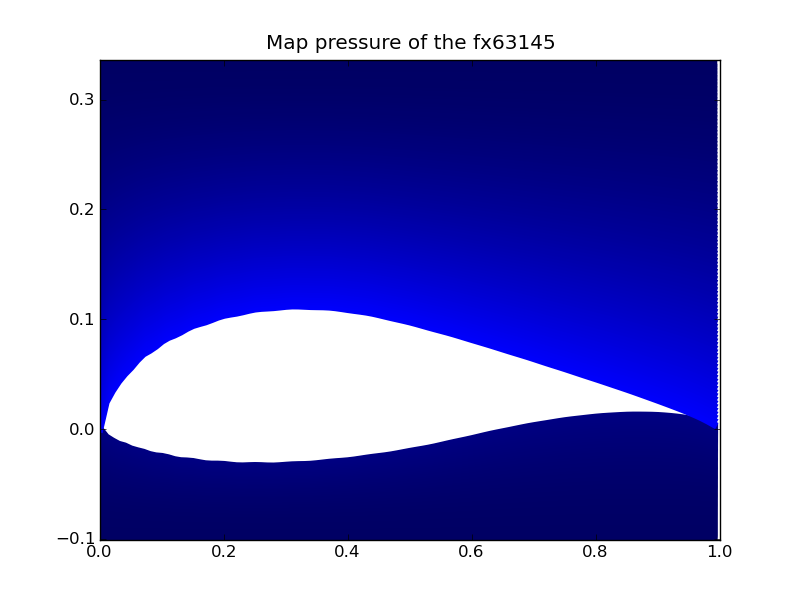
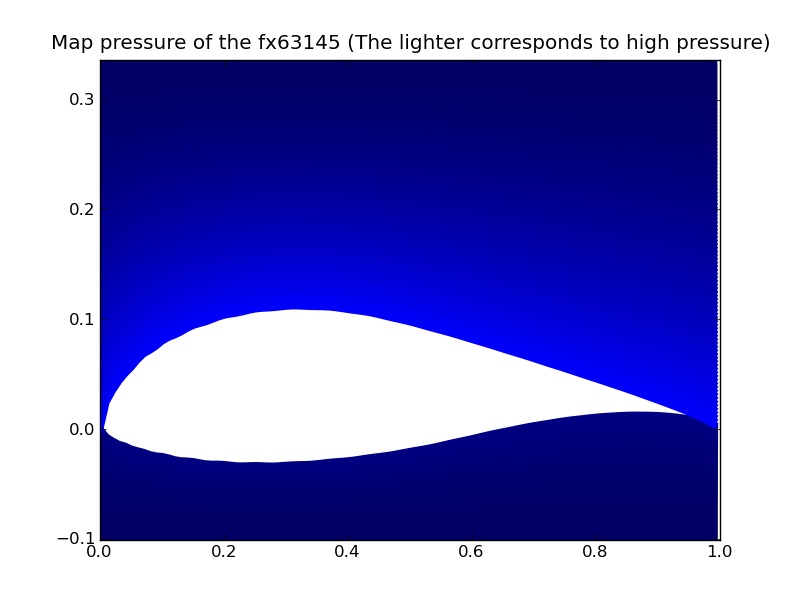
coms dans modelisation.py

Changed region(s): [[0.0625, 0.06, 0.9688, 0.09]]

diff --git a/src/Modelisation.py b/src/Modelisation.py
@@ -79,12 +79,12 @@ def airflow_model(f_int, f_ext):
     for i in range(nbLambda):
         f_lambda_int = f_lambda(f_int, lambdaTab[i], min(iy))
         f_lambda_values_int = it.curve(f_lambda_int,len(t),t)
-        mp.plot(t,f_lambda_values_int,linewidth=1.0)
+        mp.plot(t,f_lambda_values_int,linewidth=1.0, color='#0000ff')
         
     for j in range(nbLambda):
         f_lambda_ext = f_lambda(f_ext, lambdaTab[j], max(ey))
         f_lambda_values_ext = it.curve(f_lambda_ext,len(t),t)
-        mp.plot(t,f_lambda_values_ext,linewidth=1.0)
+        mp.plot(t,f_lambda_values_ext,linewidth=1.0, color='#0000ff')
 
     mp.axis([min(ex), max(max(ex),max(ix)), 3*min(iy), 3*max(ey)])
     mp.title('Laminar airflow of the fx63145')
@@ -96,8 +96,9 @@ def pressure_to_colour(P, Pbase, Pmax):
     
 
 def curves_pressure_representation(f_int, f_int_d, f_ext,  f_ext_d, integration_method, Ps, precision, n):
+    """ Plots colored curbs according to pressure """ 
     t = np.arange(0.0, 1.0, 0.01)
-    lambdaTab = np.arange(0.0,1.0,0.1)
+    lambdaTab = np.arange(0.0,1.0,0.01)
     nbLambda = len(lambdaTab)
     Pressure_Tab = np.zeros(nbLambda)
     Pmax = 1
@@ -115,7 +116,7 @@ def curves_pressure_representation(f_int, f_int_d, f_ext,  f_ext_d, integration_
         Pressure_Tab[i] = pressure_on_curve(Ps, length_int)
         color = pressure_to_colour(Pressure_Tab[i], Pbase, Pmax)
         f_lambda_values_int = it.curve(f_lambda_int,len(t),t)
-        mp.plot(t,f_lambda_values_int,linewidth=5.0, color=(color, 0, 0))
+        mp.plot(t,f_lambda_values_int,linewidth=5.0, color=(0, 0, color))
         
     for j in range(nbLambda):
         f_lambda_ext = f_lambda(f_ext, lambdaTab[j], max(ey))
@@ -124,10 +125,10 @@ def curves_pressure_representation(f_int, f_int_d, f_ext,  f_ext_d, integration_
         Pressure_Tab[j] = pressure_on_curve(Ps, length_ext)
         color = pressure_to_colour(Pressure_Tab[j], Pbase, Pmax)
         f_lambda_values_ext = it.curve(f_lambda_ext,len(t),t)
-        mp.plot(t,f_lambda_values_ext,linewidth=5.0, color=(color,0,0))
+        mp.plot(t,f_lambda_values_ext,linewidth=5.0, color=(0,0,color))
 
     mp.axis([min(ex), max(max(ex),max(ix)), 3*min(iy), 3*max(ey)])
-    mp.title('map pressure of the fx63145')
+    mp.title('Map pressure of the fx63145 (The lighter corresponds to high pressure)')
     mp.savefig("map_pressure_test.png")
     mp.clf()
 
@@ -201,7 +202,7 @@ def plot_pressures_around_airfoil_mat(file_name, size_matrix):
 
             
 def matrix_to_png(matrix, name):
-    """ Convertit une matrice matrix en une image png """
+    """ Converts a matrix in png format picture """
     mp.clf()
     mp.imshow(matrix, cmap='hot', interpolation='bilinear')
     mp.savefig(name)
@@ -240,10 +241,9 @@ print pressure_on_curve(Ps, length_ext_b)
 #M = matrix_map_pressure(ext_interp_fun_d, 1, 1, 0.1)
 #print matrix_to_png(M, "Map_pressure.png")
 
+airflow_model(int_interp_fun, ext_interp_fun)
 
 curves_pressure_representation(int_interp_fun, int_interp_fun_d, ext_interp_fun, ext_interp_fun_d, it.simpson, 0, 0.1, 50)
-
-#airflow_model(int_interp_fun, ext_interp_fun)
 
 Mat = plot_pressures_around_airfoil_mat("fx63145.dat", 10)
 matrix_to_png(Mat, "test_pressure.png")
